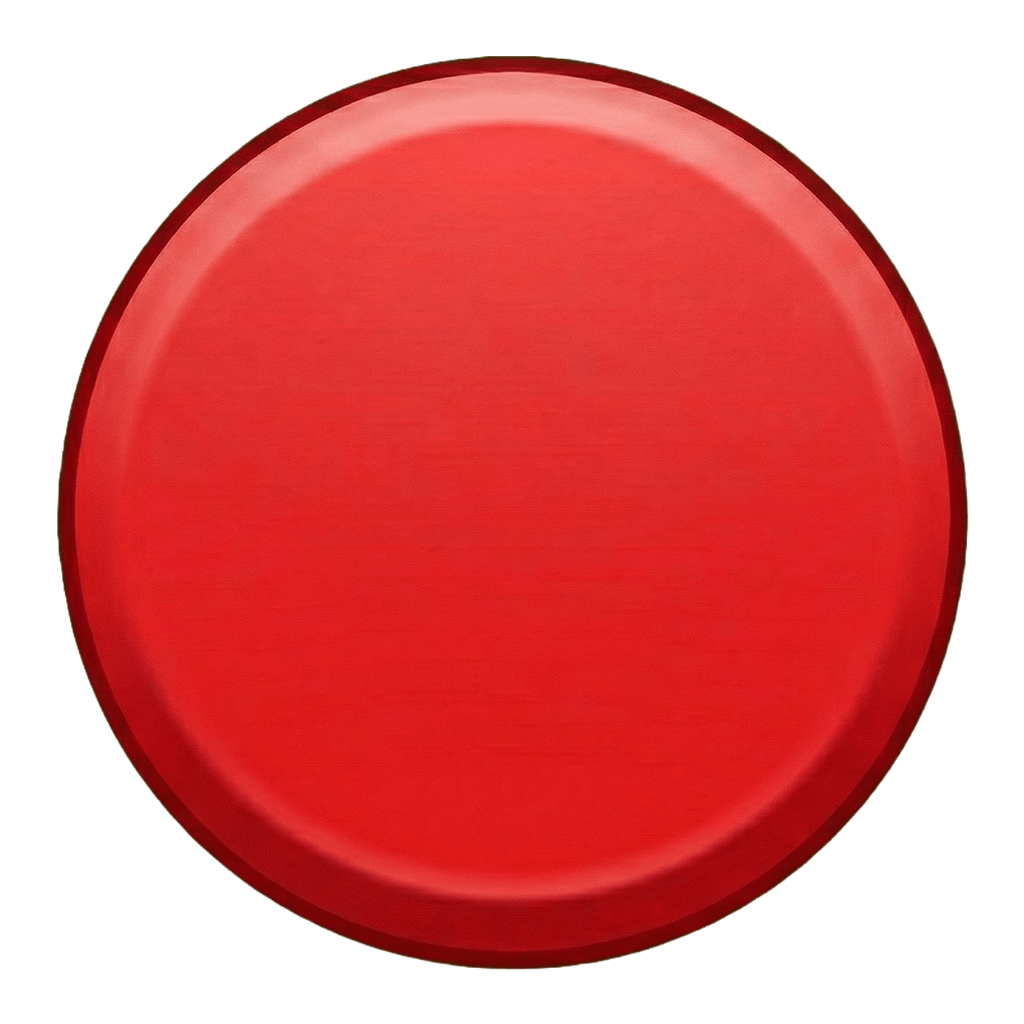
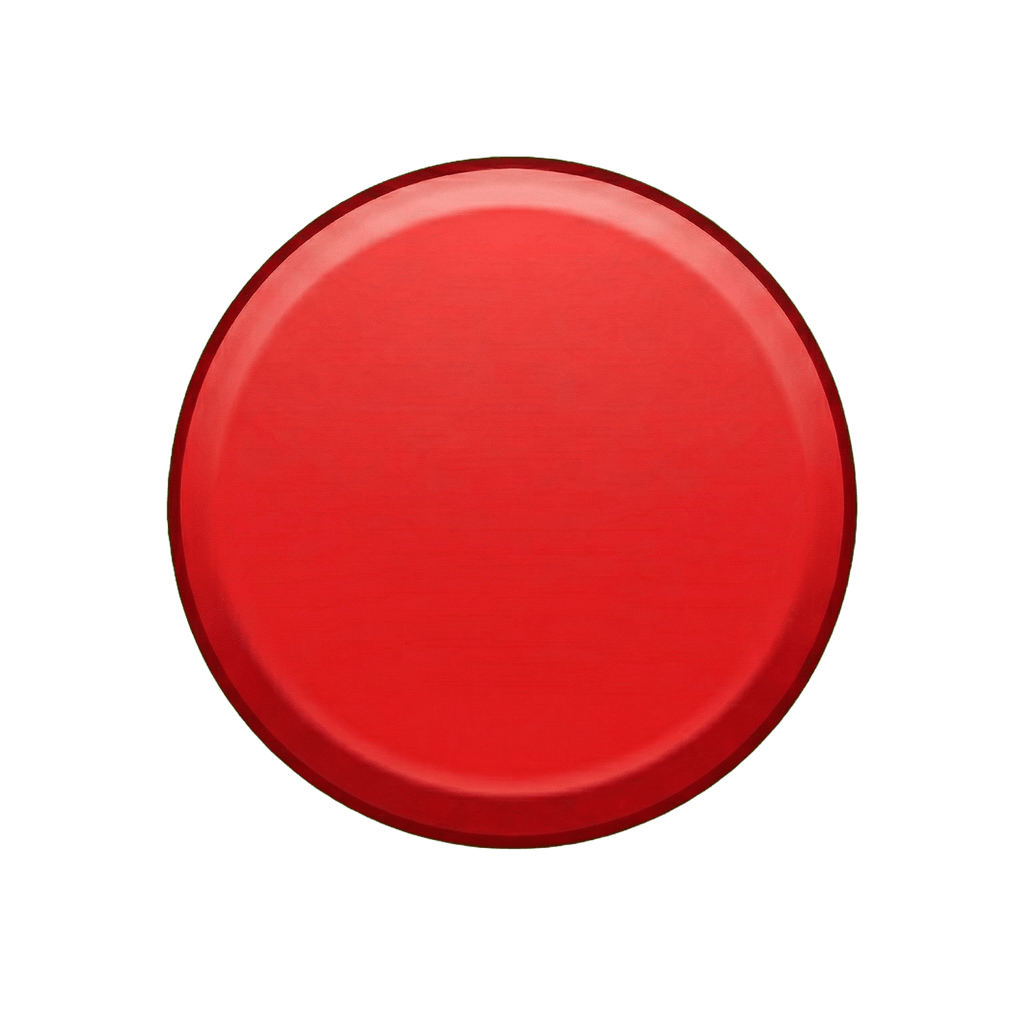
레벨1 이미지 수정

diff --git a/src/game/assets.ts b/src/game/assets.ts
@@ -10,13 +10,13 @@ export const TILE_TEXTURE_BY_LEVEL: Record<number, string> = {
 };
 
 export const TILE_TEXTURE_SOURCES: Array<{ key: string; path: string }> = [
-  { key: TILE_TEXTURE_BY_LEVEL[1], path: "assets/raw/1.png" },
-  { key: TILE_TEXTURE_BY_LEVEL[2], path: "assets/raw/2.png" },
-  { key: TILE_TEXTURE_BY_LEVEL[3], path: "assets/raw/3.png" },
-  { key: TILE_TEXTURE_BY_LEVEL[4], path: "assets/raw/4.png" },
-  { key: TILE_TEXTURE_BY_LEVEL[5], path: "assets/raw/5.png" },
-  { key: TILE_TEXTURE_BY_LEVEL[6], path: "assets/raw/6.png" },
-  { key: TILE_TEXTURE_BY_LEVEL[7], path: "assets/raw/7.png" },
-  { key: TILE_TEXTURE_BY_LEVEL[8], path: "assets/raw/8.png" },
+  { key: TILE_TEXTURE_BY_LEVEL[1], path: "assets/tiles/tile_lv1_red_circle.png" },
+  { key: TILE_TEXTURE_BY_LEVEL[2], path: "assets/tiles/tile_lv2_orange_triangle.png" },
+  { key: TILE_TEXTURE_BY_LEVEL[3], path: "assets/tiles/tile_lv3_yellow_square.png" },
+  { key: TILE_TEXTURE_BY_LEVEL[4], path: "assets/tiles/tile_lv4_green_hexagon.png" },
+  { key: TILE_TEXTURE_BY_LEVEL[5], path: "assets/tiles/tile_lv5_cyan_octagon.png" },
+  { key: TILE_TEXTURE_BY_LEVEL[6], path: "assets/tiles/tile_lv6_blue_star.png" },
+  { key: TILE_TEXTURE_BY_LEVEL[7], path: "assets/tiles/tile_lv7_purple_octagram.png" },
+  { key: TILE_TEXTURE_BY_LEVEL[8], path: "assets/tiles/tile_lv8_rainbow_rounded_square.png" },
 ];
 

diff --git a/src/game/config/index.ts b/src/game/config/index.ts
@@ -13,7 +13,7 @@ export function getPhaserConfig(container: HTMLElement): Types.Core.GameConfig {
       ? window.devicePixelRatio
       : 1;
   // HiDPI supersampling: improve sprite edge quality while capping GPU cost.
-  const renderResolution = Math.min(Math.max(dpr, 1), 3);
+  const renderResolution = Math.min(Math.max(dpr, 1), 2);
 
   const config = {
     type: Phaser.AUTO,
